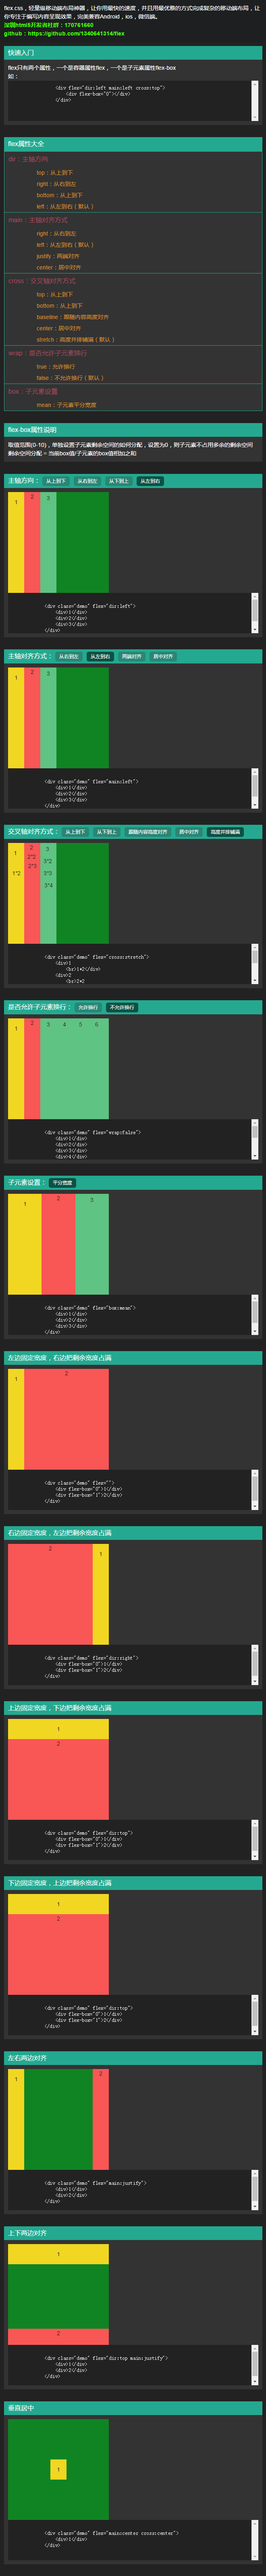
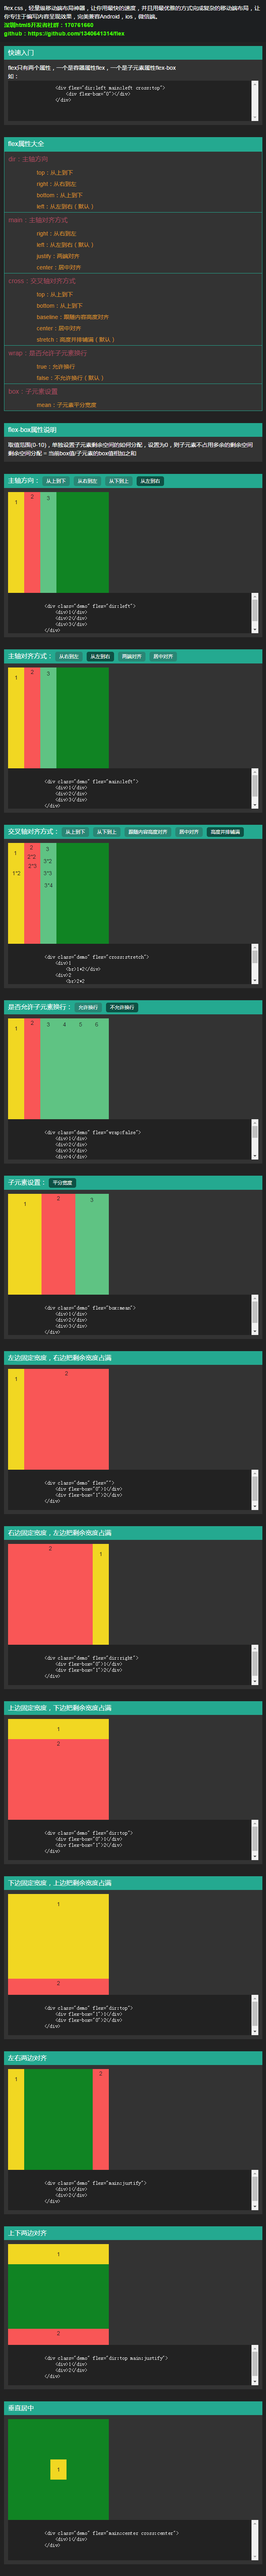
修正demo

Changed region(s): [[0.0303, 0.7166, 0.4242, 0.7789]]

diff --git a/index.html b/index.html
@@ -174,8 +174,8 @@
         <div class="tit">下边固定宽度，上边把剩余宽度占满</div>
         <div class="content">
             <div class="demo" flex="dir:top">
-                <div flex-box="0">1</div>
-                <div flex-box="1">2</div>
+                <div flex-box="1">1</div>
+                <div flex-box="0">2</div>
             </div>
         </div>
     </div>
